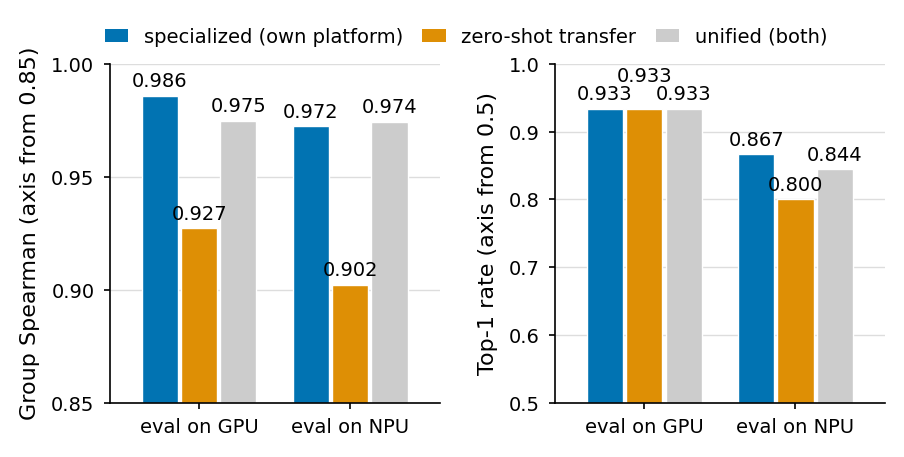
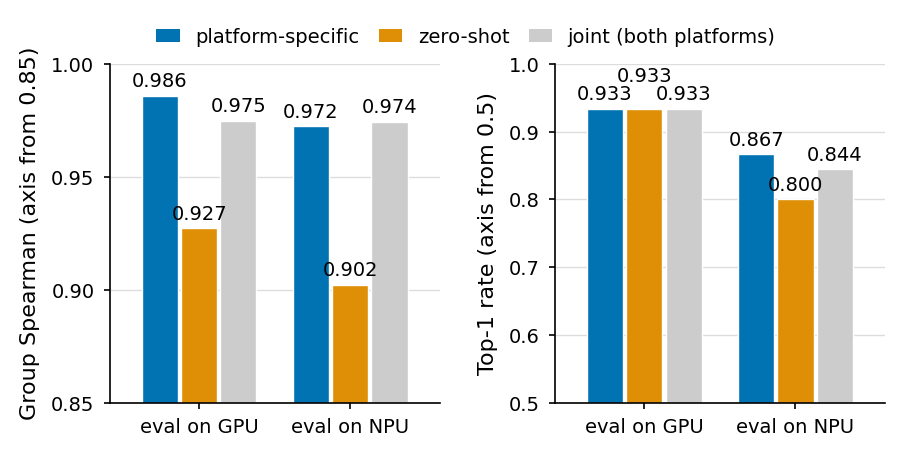
[F2] Align fig_transfer legend with the manuscript's transfer terminology
Manuscript r4 line 177 defines the three settings as platform-specific,
zero-shot, and joint, so the legend now uses those words:
  "specialized (own platform)" -> "platform-specific"
  "zero-shot transfer"         -> "zero-shot"
  "unified (both)"             -> "joint (both platforms)"

Labels only. Bar values, colors, order, axes and figure geometry are untouched,
and verified so after regeneration:
- pdftotext compared order-insensitively: the only differences are the three
  removed and three added label strings.
- Every numeric token is identical (0.986/0.972/0.927/0.902/0.975/0.974/
  0.933/0.867/0.800/0.844 plus all axis ticks).
- pdfinfo page size is unchanged at 326.228 x 164.499 pts, so the shorter labels
  did not move the tight bounding box.
- PNG stays 904 x 457.

figures/README.md records the generator, the old/new label mapping and the four
verification results.

Note for the chat session: fig_transfer.pdf's content hash changed
(d9899184... -> 71241a3b...), so the manuscript's embedded copy needs refreshing.
fig_divergence.pdf is untouched and its 3c13b1df... hash remains valid.

Changed region(s): [[0.0929, 0.0613, 0.9292, 0.0919]]

diff --git a/xgboost_model/full_collection_540/scripts/make_figures.py b/xgboost_model/full_collection_540/scripts/make_figures.py
@@ -193,7 +193,10 @@ def fig_f2():
     panels = [("rho", "Group Spearman (axis from 0.85)", (0.85, 1.0), 0.05),
               ("top1", "Top-1 rate (axis from 0.5)", (0.5, 1.0), 0.1)]
     colors = [BLUE, ORANGE, GRAY_BAR]
-    labels = ["specialized (own platform)", "zero-shot transfer", "unified (both)"]
+    # Legend wording tracks the manuscript's Transfer paragraph, which defines the
+    # three settings as platform-specific / zero-shot / joint. Labels only -- the
+    # bars, axes and figure geometry are untouched.
+    labels = ["platform-specific", "zero-shot", "joint (both platforms)"]
     width = 0.26
     for ax, (metric, ylab, ylim, step) in zip(axes, panels):
         rng = ylim[1] - ylim[0]

diff --git a/xgboost_model/full_collection_540/analysis/figures/README.md b/xgboost_model/full_collection_540/analysis/figures/README.md
@@ -58,12 +58,35 @@ S6, S10, S7, S8. (지시문의 서술 순서 대신 N 오름차순을 택함 —
 
 ## F2 — fig_transfer.{pdf,png}
 
-- 생성: 2026-07-30 10:59 KST, HEAD `1ee0f8e` (pre-commit), 인자 `--fig f2`
+- **generator**: `scripts/make_figures.py --fig f2`
+- 재생성: 2026-08-04, HEAD `11fc6c6` (pre-commit) — **범례 라벨만 변경**
+- 최초 생성: 2026-07-30 10:59 KST, HEAD `1ee0f8e` (pre-commit)
 - 입력: `analysis/cross_platform_metrics.json`(asis 변형, commit d0e2644),
   `analysis/unified_metrics.json`(commit c37c5bd),
   `analysis/groupkfold_{gpu,npu}_metrics.json`(commit 475a208)
 - figsize (5.0, 2.2)in 2패널, y축 절단을 축 레이블에 명시
   (Spearman [0.85,1.00] / Top-1 [0.5,1.0]), 막대 위 수치 7pt
+
+### 범례 용어 (2026-08-04 갱신)
+
+원고 §4 Transfer 문단이 세 설정을 **platform-specific / zero-shot / joint**로 정의하므로
+범례를 본문 용어에 정렬했다. 막대 색·순서는 불변(파랑=platform-specific,
+주황=zero-shot, 회색=joint).
+
+| 이전 | 현재 |
+|---|---|
+| `specialized (own platform)` | `platform-specific` |
+| `zero-shot transfer` | `zero-shot` |
+| `unified (both)` | `joint (both platforms)` |
+
+**데이터 불변 검증** (재생성 전후):
+
+- `pdftotext` 순서 무관 비교: 차이는 **라벨 3건뿐**, 그 외 토큰 변화 0
+- 숫자 토큰 전수 비교: **완전 동일** (0.986/0.972/0.927/0.902/0.975/0.974/
+  0.933/0.867/0.800/0.844 및 축 눈금 전부)
+- `pdfinfo` 페이지 크기: **326.228 × 164.499 pts로 전후 동일** — 라벨이 짧아졌으나
+  `bbox_inches="tight"` 결과가 바뀌지 않았다
+- PNG 픽셀 치수: **904 × 457로 전후 동일**
 
 ### 정확한 값 (JSON에서 읽음 — SUMMARY 수치와 전부 일치, 불일치 없음)
 
